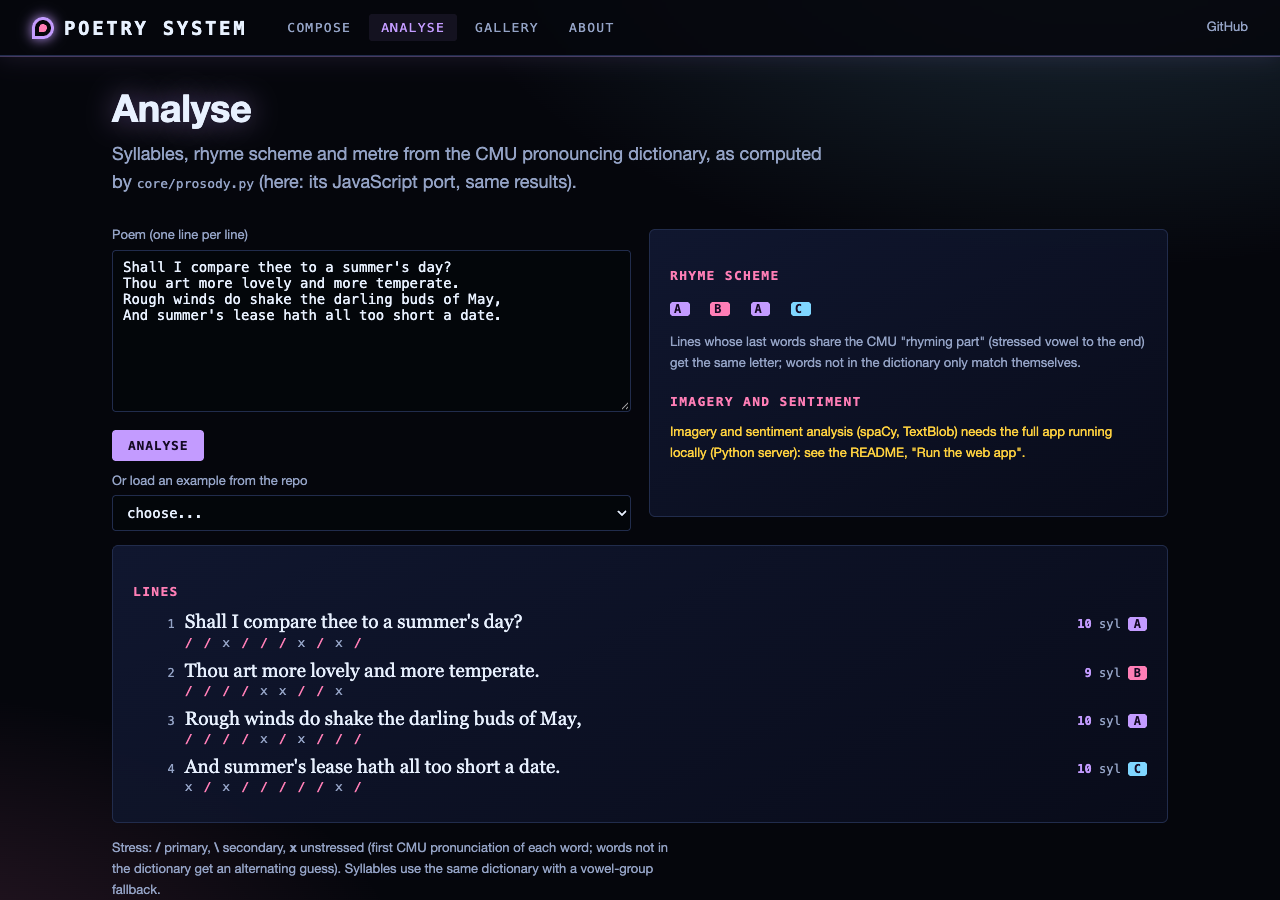
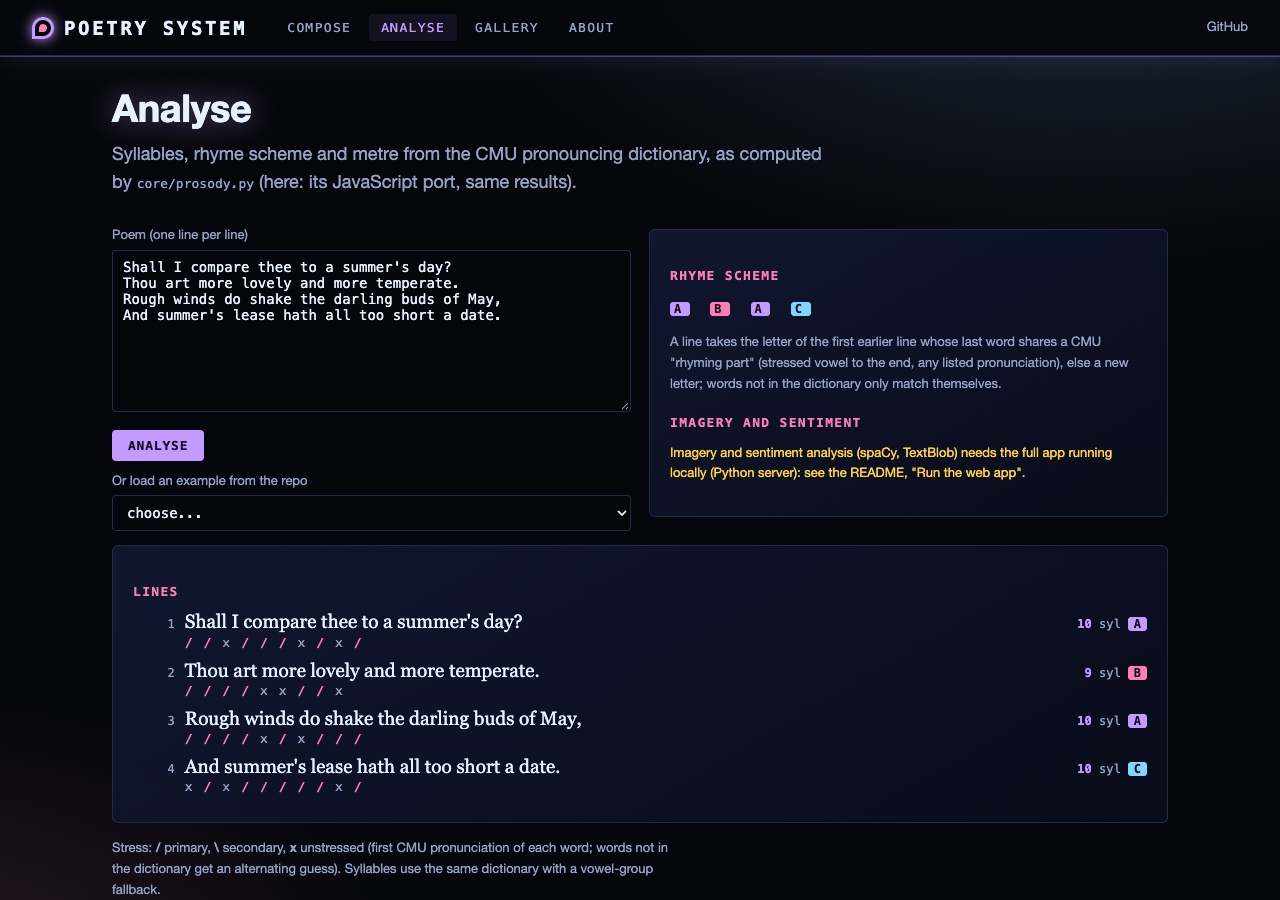
Fix spaCy-dependent tests erroring when spaCy is not installed
tests/test_analyzer.py and tests/test_generator.py built PoetryAnalyzer in
their fixtures, so 'pytest tests' without spaCy/TextBlob gave 19 errors. A
shared full_analyzer fixture in tests/conftest.py now skips them when spaCy,
en_core_web_sm or TextBlob is missing (24 passed, 19 skipped); with them
installed all 43 tests run. Also refreshes README screenshots and the log.

Changed region(s): [[0.5312, 0.3733, 0.9062, 0.5289]]

diff --git a/tests/conftest.py b/tests/conftest.py
@@ -1,0 +1,20 @@
+"""Shared fixtures. Tests that need the full PoetryAnalyzer (spaCy + en_core_web_sm, TextBlob) skip cleanly when those
+are not installed, so `pytest tests` runs without them (the web and prosody tests do not need them)."""
+import sys
+from pathlib import Path
+
+import pytest
+
+sys.path.insert(0, str(Path(__file__).parent.parent))
+
+
+@pytest.fixture(scope='session')
+def full_analyzer():
+    """A PoetryAnalyzer, or skip if spaCy, its English model or TextBlob is missing."""
+    pytest.importorskip('spacy', reason='spaCy not installed (pip install spacy)')
+    pytest.importorskip('textblob', reason='TextBlob not installed (pip install textblob)')
+    from core.analyzer import PoetryAnalyzer
+    try:
+        return PoetryAnalyzer()
+    except OSError as e:  # en_core_web_sm missing
+        pytest.skip(str(e))

diff --git a/tests/test_generator.py b/tests/test_generator.py
@@ -10,21 +10,19 @@ from pathlib import Path
 
 sys.path.insert(0, str(Path(__file__).parent.parent))
 
-from core.analyzer import PoetryAnalyzer
 from core.generator import PoetryGenerator
 
 
 @pytest.fixture(scope='module')
-def generator():
-    """Shared generator instance."""
-    analyzer = PoetryAnalyzer()
-    return PoetryGenerator(analyzer)
+def generator(full_analyzer):
+    """Shared generator instance (skips without spaCy, see conftest.py)."""
+    return PoetryGenerator(full_analyzer)
 
 
 @pytest.fixture(scope='module')
-def analyzer():
+def analyzer(full_analyzer):
     """Shared analyzer for syllable checking."""
-    return PoetryAnalyzer()
+    return full_analyzer
 
 
 class TestGenerateHaiku:

diff --git a/tests/test_analyzer.py b/tests/test_analyzer.py
@@ -10,13 +10,12 @@ from pathlib import Path
 
 sys.path.insert(0, str(Path(__file__).parent.parent))
 
-from core.analyzer import PoetryAnalyzer
 
 
 @pytest.fixture(scope='module')
-def analyzer():
-    """Shared analyzer instance (loads spaCy model once)."""
-    return PoetryAnalyzer()
+def analyzer(full_analyzer):
+    """Shared analyzer instance (loads spaCy model once; skips without spaCy, see conftest.py)."""
+    return full_analyzer
 
 
 class TestCountSyllables:

diff --git a/SESSION_LOG.md b/SESSION_LOG.md
@@ -30,6 +30,16 @@ The CMU data (135,166 pronunciations) is exported as one 2.8 MB JSON (0.9 MB gzi
 **Tests.** With spaCy: `pytest -q tests` 41 passed. Without spaCy: `tests/test_web.py tests/test_prosody.py` pass.
 `screenshots.py --static` and `--base http://127.0.0.1:8139`: all routes ok, no phone overflow.
 
-**Open questions for George.** Add `generate_tanka` (the template exists)? Sonnet rhymes come from the whole CMU
-dictionary (can end lines on obscure words); restrict to the vocabulary? Rhyme scheme uses each word's first CMU
-pronunciation only ("dog"/"fog" do not match).
+**Open questions for George.** (tanka and multi-pronunciation rhymes resolved below.) Sonnet rhymes come from the
+whole CMU dictionary (can end lines on obscure words); restrict to the vocabulary?
+
+## 2026-11-11 (later) -- follow-ups after merge
+- **Fix rhymes across pronunciations**: `analyze_rhyme_scheme` now matches a line to the first earlier line sharing a
+  CMU rhyming part in any pronunciation ("dog"/"fog" rhyme; "read" matches "led" and "reed"). JS port updated.
+- **Fix missing tanka**: `generate_tanka(mood)` from the existing 5-7-5-7-7 template, built like `generate_haiku`;
+  Tanka on the Compose page and two seeded tanka in the Gallery. Test: 100 seeds, 5 lines, each within its count.
+- **Tests skip cleanly without spaCy/TextBlob**: `tests/conftest.py` `full_analyzer` fixture (importorskip + model
+  check). Shared venv: `pytest tests` 24 passed, 19 skipped, 0 errors; spaCy venv: 43 passed.
+- Fixture regenerated (126 poems); node test 768 checks identical; 15/15 gallery samples recreated in the browser;
+  screenshots.py ok on static site and local app, 0px phone overflow.
+- Still open for George: limit sonnet rhymes to the vocabulary?
